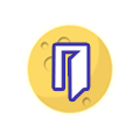
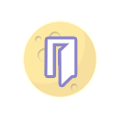
按钮高亮

Changed region(s): [[0.175, 0.175, 0.825, 0.825]]

diff --git a/CGlassTD/CGlassTD/StageSelect.cpp b/CGlassTD/CGlassTD/StageSelect.cpp
@@ -6,27 +6,84 @@
 #include "Sound.h"
 
 StageSelect::StageSelect(Ogre::SceneManager* sceneManager, StageManager* stageManager, MyGUI::Gui* gui)
-	: Stage(sceneManager, stageManager, gui)
+	: Stage(sceneManager, stageManager, gui),preFlag(-1),flag(0)
 {
 	mLayout = MyGUI::LayoutManager::getInstance().loadLayout("SelectStage.layout");
-	MyGUI::ImageBox* temp = this->getGUI()->findWidget<MyGUI::ImageBox>("stageBG");
-	temp->setVisible(true);
+	stageBG = this->getGUI()->findWidget<MyGUI::ImageBox>("stageBG");
 	stage1Btn = this->getGUI()->findWidget<MyGUI::ImageBox>("stage1"); 
 	stage2Btn = this->getGUI()->findWidget<MyGUI::ImageBox>("stage2"); 
 	stage3Btn = this->getGUI()->findWidget<MyGUI::ImageBox>("stage3"); 
 	backBtn = this->getGUI()->findWidget<MyGUI::ImageBox>("back"); 
 	
+	stageBG->eventMouseMove += MyGUI::newDelegate(this, &StageSelect::notifyMouseButtonMove);
+
+	stage1Btn->eventMouseMove += MyGUI::newDelegate(this, &StageSelect::notifyMouseButtonMove);
 	stage1Btn->eventMouseButtonPressed += MyGUI::newDelegate(this, &StageSelect::notifyMouseButtonPress);
 	stage1Btn->eventMouseButtonReleased += MyGUI::newDelegate(this, &StageSelect::notifyMouseButtonRelease);
 	
+	stage2Btn->eventMouseMove += MyGUI::newDelegate(this, &StageSelect::notifyMouseButtonMove);
 	stage2Btn->eventMouseButtonPressed += MyGUI::newDelegate(this, &StageSelect::notifyMouseButtonPress);
 	stage2Btn->eventMouseButtonReleased += MyGUI::newDelegate(this, &StageSelect::notifyMouseButtonRelease);
 	
+	stage3Btn->eventMouseMove += MyGUI::newDelegate(this, &StageSelect::notifyMouseButtonMove);
 	stage3Btn->eventMouseButtonPressed += MyGUI::newDelegate(this, &StageSelect::notifyMouseButtonPress);
 	stage3Btn->eventMouseButtonReleased += MyGUI::newDelegate(this, &StageSelect::notifyMouseButtonRelease);
 	
+	backBtn->eventMouseMove += MyGUI::newDelegate(this, &StageSelect::notifyMouseButtonMove);
 	backBtn->eventMouseButtonPressed += MyGUI::newDelegate(this, &StageSelect::notifyMouseButtonPress);
 	backBtn->eventMouseButtonReleased += MyGUI::newDelegate(this, &StageSelect::notifyMouseButtonRelease);
+}
+
+void StageSelect::notifyMouseButtonMove( MyGUI::Widget* _sender, int _left, int _top )
+{
+	if(preFlag != flag)
+	{
+		switch(preFlag)
+		{
+		case 1:
+			stage1Btn->setImageTexture("stage1.png");
+			break;
+		case 2:
+			stage2Btn->setImageTexture("stage2.png");
+			break;
+		case 3:
+			stage3Btn->setImageTexture("stage3.png");
+			break;
+		case 4:
+			backBtn->setImageTexture("back.png");
+			break;
+		}
+	}
+
+	if(_sender == stage1Btn)
+	{
+		stage1Btn->setImageTexture("stage1Move.png");
+		preFlag = flag;
+		flag = 1;
+	}
+	else if(_sender == stage2Btn)
+	{
+		stage2Btn->setImageTexture("stage2Move.png");
+		preFlag = flag;
+		flag = 2;
+	}
+	else if(_sender == stage3Btn)
+	{
+		stage3Btn->setImageTexture("stage3Move.png");
+		preFlag = flag;
+		flag = 3;
+	}
+	else if(_sender == backBtn)
+	{
+		backBtn->setImageTexture("backMove.png");
+		preFlag = flag;
+		flag = 4;
+	}
+	else 
+	{
+		preFlag = flag;
+		flag = 0;
+	}
 }
 
 void StageSelect::notifyMouseButtonPress( MyGUI::Widget* _sender, int _left, int _top, MyGUI::MouseButton _id )
@@ -110,6 +167,8 @@ bool StageSelect::onMouseReleased(const OIS::MouseEvent &arg, OIS::MouseButtonID
 {
 	return true;
 }
+
+
 
 
 

diff --git a/CGlassTD/CGlassTD/StartStage.cpp b/CGlassTD/CGlassTD/StartStage.cpp
@@ -7,6 +7,7 @@ StartStage::StartStage(Ogre::SceneManager* sceneManager, StageManager* stageMana
 {
 	flag = 0;
 	preFlag = -1;
+	quitFlag = false;
 	mLayout = MyGUI::LayoutManager::getInstance().loadLayout("start.layout");
 	background = this->getGUI()->findWidget<MyGUI::ImageBox>("background"); 
 	background->eventMouseMove += MyGUI::newDelegate(this, &StartStage::notifyMouseMove);
@@ -30,7 +31,55 @@ StartStage::StartStage(Ogre::SceneManager* sceneManager, StageManager* stageMana
 
 void StartStage::notifyMouseMove( MyGUI::Widget* _sender, int _left, int _top )
 {
-	
+	if(preFlag != flag)
+	{
+		if(preFlag == 1)
+		{
+			juqingBtn->setImageTexture("juqing.png");
+		}
+		else if(preFlag == 2)
+		{
+			lifeBtn->setImageTexture("life.png");
+		}
+		else if(preFlag == 3)
+		{
+			settingBtn->setImageTexture("setting.png");
+		}
+		else if(preFlag == 4)
+		{
+			quitBtn->setImageTexture("quit.png");
+		}
+
+	}
+	if(_sender == juqingBtn)
+	{
+		juqingBtn->setImageTexture("juqingMove.png");
+		preFlag = flag;
+		flag = 1;
+	}
+	else if(_sender == lifeBtn)
+	{
+		lifeBtn->setImageTexture("lifeMove.png");
+		preFlag = flag;
+		flag = 2;
+	}
+	else if(_sender == settingBtn)
+	{
+		settingBtn->setImageTexture("settingMove.png");
+		preFlag = flag;
+		flag = 3;
+	}
+	else if(_sender == quitBtn)
+	{
+		quitBtn->setImageTexture("quitMove.png");
+		preFlag = flag;
+		flag = 4;
+	}
+	else 
+	{
+		preFlag = flag;
+		flag = 0;
+	}
 }
 void StartStage::notifyMouseButtonPress( MyGUI::Widget* _sender, int _left, int _top , MyGUI::MouseButton _id)
 {
@@ -71,7 +120,7 @@ void StartStage::notifyMouseButtonRelease( MyGUI::Widget* _sender, int _left, in
 	else if(_sender == quitBtn)
 	{
 		quitBtn->setImageTexture("quit.png");
-
+		quitFlag = true;
 	}
 }
 
@@ -82,7 +131,7 @@ StartStage::~StartStage(void)
 
 bool StartStage::run(float timeSinceLastFrame)
 {
-	return true;
+	return (!quitFlag);
 }
 
 bool StartStage::onKeyPressed(const OIS::KeyEvent &arg)

diff --git a/CGlassTD/CGlassTD/LevelStage.cpp b/CGlassTD/CGlassTD/LevelStage.cpp
@@ -4,10 +4,10 @@
 #include "StartStage.h"
 #include "Money.h"
 
-LevelStage::LevelStage(Ogre::SceneManager* sceneManager, StageManager* stageManager, MyGUI::Gui* gui)
+LevelStage::LevelStage(Ogre::SceneManager* sceneManager, StageManager* stageManager, MyGUI::Gui* gui, int level)
 	: Stage(sceneManager, stageManager, gui),
 	mCurrentStep(0), mCannon(0), mMaze(0), mMonsterManager(0), mUFO(0),
-	mGravity(Vector3(0, -200, 0)), mIsRunning(true)
+	mGravity(Vector3(0, -200, 0)), mIsRunning(true),mLevel(level)
 {
 	if (Money::getInstance() == 0)
 		Money::init(gui);
@@ -375,4 +375,9 @@ void LevelStage::onEdBackToMenuBtnRelease( MyGUI::Widget* _sender, int _left, in
 	MyGUI::ImageBox* backToMenu = mGui->findWidget<MyGUI::ImageBox>("back_to_menu");
 	backToMenu->setImageTexture("backToMenu.png");
 	onEdHomeBtnClick(_sender);
+}
+
+int LevelStage::getLevel()
+{
+	return mLevel;
 }

diff --git a/CGlassTD/CGlassTD/StartStage.h b/CGlassTD/CGlassTD/StartStage.h
@@ -49,7 +49,7 @@ private:
 	MyGUI::VectorWidgetPtr mLayout;
 	int flag;
 	int preFlag;
-	
+	bool quitFlag;
 };
 
 #endif
